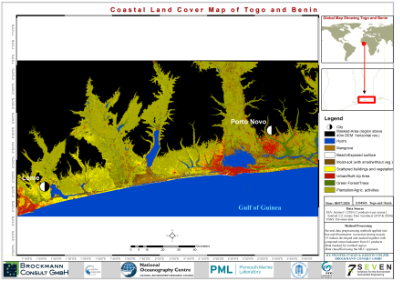
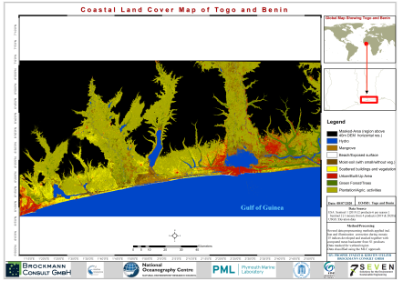
Replaced some LC maps for Prosper...

diff --git a/areas/togo.html b/areas/togo.html
@@ -165,7 +165,7 @@
 
         <tr>
 						<td class="text-center"><strong>Togo Coastal Landcover (2020)</strong></td>
-						<td class="text-center"><a href="https://storage.cloud.google.com/eo4sd-271513.appspot.com/West%20Africa/Togo/EO4SD_Togo-coastal_Landcover_map.png" target="_blank"><img src="../data/WestAfrica/Togo/EO4SD_Togo-coastal_Landcover_map_ql.png" width="400" alt="Benin LC"/></a><br>
+						<td class="text-center"><a href="https://storage.googleapis.com/eo4sd-271513.appspot.com/West%20Africa/Togo/Togo_EO4SD_updated-sentinel2.png" target="_blank"><img src="../data/WestAfrica/Togo/EO4SD_Togo-coastal_Landcover_map_ql.png" width="400" alt="Benin LC"/></a><br>
 			            (2.3MB)</td>
 						<td class="text-center">
 							<details>
@@ -183,9 +183,9 @@
     		
         <tr>
 						<td class="text-center"><strong>Togo and Benin Coastal Landcover (2020)</strong></td>
-						<td class="text-center"><a href="https://storage.cloud.google.com/eo4sd-271513.appspot.com/West%20Africa/TogoBenin/Landcover/EO4SD_Togo%20and%20Benin-coastal_Landcover_map.png" target="_blank"><img src="../data/WestAfrica/TogoBenin/EO4SD_Togo and Benin-coastal_Landcover_map_ql.png" width="400" alt="Togo and Benin LC"/></a><br>
+						<td class="text-center"><a href="https://storage.googleapis.com/eo4sd-271513.appspot.com/West%20Africa/TogoBenin/Landcover/Benin_and_Togo_EO4SD_updated-sentinel2.png" target="_blank"><img src="../data/WestAfrica/TogoBenin/EO4SD_Togo and Benin-coastal_Landcover_map_ql.png" width="400" alt="Togo and Benin LC"/></a><br>
 			            (2.5MB)</td>
-						<td class="text-center">
+			   		<td class="text-center">
 							<details>
 							  <summary>
 								This is the Togo and Benin land-cover classification data (2020) produced by Brockmann Consult GmbH for the Marine and Coastal Resources project.

diff --git a/areas/benin.html b/areas/benin.html
@@ -195,7 +195,7 @@
 			  
         <tr>
 						<td class="text-center"><strong>Benin Coastal Landcover (2020)</strong></td>
-						<td class="text-center"><a href="https://storage.cloud.google.com/eo4sd-271513.appspot.com/West%20Africa/Benin/Landcover/EO4SD_Benin-coastal_Landcover_map.png" target="_blank"><img src="../data/WestAfrica/Benin/EO4SD_Benin-coastal_Landcover_map_ql.png" width="400" alt="Benin LC"/></a><br>
+						<td class="text-center"><a href="https://storage.googleapis.com/eo4sd-271513.appspot.com/West%20Africa/Benin/Landcover/Benin_EO4SD_updated-sentinel2.png" target="_blank"><img src="../data/WestAfrica/Benin/EO4SD_Benin-coastal_Landcover_map_ql.png" width="400" alt="Benin LC"/></a><br>
 			            (2.5MB)</td>
 						<td class="text-center">
 							<details>
@@ -213,7 +213,7 @@
     		
         <tr>
 						<td class="text-center"><strong>Togo and Benin Coastal Landcover (2020)</strong></td>
-						<td class="text-center"><a href="https://storage.cloud.google.com/eo4sd-271513.appspot.com/West%20Africa/TogoBenin/Landcover/EO4SD_Togo%20and%20Benin-coastal_Landcover_map.png" target="_blank"><img src="../data/WestAfrica/TogoBenin/EO4SD_Togo and Benin-coastal_Landcover_map_ql.png" width="400" alt="Togo and Benin LC"/></a><br>
+						<td class="text-center"><a href="https://storage.googleapis.com/eo4sd-271513.appspot.com/West%20Africa/TogoBenin/Landcover/Benin_and_Togo_EO4SD_updated-sentinel2.png" target="_blank"><img src="../data/WestAfrica/TogoBenin/EO4SD_Togo and Benin-coastal_Landcover_map_ql.png" width="400" alt="Togo and Benin LC"/></a><br>
 			            (2.5MB)</td>
 						<td class="text-center">
 							<details>

diff --git a/areas/pakistan.html b/areas/pakistan.html
@@ -151,7 +151,7 @@
         </tr>
         <tr>
 						<td class="text-center"><strong>Sindh-Pakistan Coastal Landcover (2020)</strong></td>
-						<td class="text-center"><a href="https://storage.cloud.google.com/eo4sd-271513.appspot.com/Pakistan/Sindh-Pakistan_coastal_Landcover_map.png" target="_blank"><img src="../data/Pakistan/Sindh-Pakistan_coastal_Landcover_map_ql.png" width="400" alt="Togo and Benin LC"/></a><br>
+						<td class="text-center"><a href="https://storage.googleapis.com/eo4sd-271513.appspot.com/Pakistan/Pakistan_EO4SD_updated2-sentinel.png" target="_blank"><img src="../data/Pakistan/Sindh-Pakistan_coastal_Landcover_map_ql.png" width="400" alt="Togo and Benin LC"/></a><br>
 			            (2.5MB)</td>
 						<td class="text-center">
 							<details>
@@ -163,7 +163,7 @@
 						<td class="text-center"><strong>Sindh-Pakistan</strong></td>
 						<td class="text-center"><strong>2019</strong></td>
 						<td class="text-center"><strong><a href="https://storage.cloud.google.com/eo4sd-271513.appspot.com/Pakistan/Sindh_Pakistan_LC.tif" target="_blank">GIS data (TIF, 127MB)</a><br><br>
-        																		<a href="https://storage.cloud.google.com/eo4sd-271513.appspot.com/Pakistan/Sindh_Pakistan_LC.tif.xml" target="_blank">Metadata (XML, 3.8KB)</a></strong>
+        																		<a href="https://storage.googleapis.com/eo4sd-271513.appspot.com/Pakistan/Sindh-Pakistan_metadata.xml" target="_blank">Metadata (XML, 3.8KB)</a></strong>
     				</td>			  
     		</tr>
         <tr>

diff --git a/areas/cote_d_ivoire.html b/areas/cote_d_ivoire.html
@@ -165,8 +165,7 @@
         </tr>
         <tr>
             <td class="text-center"><strong>C&ocirc;te d'Ivoire Coastal Landcover (2020)</strong></td>
-            <td class="text-center"><a
-                    href="https://storage.googleapis.com/eo4sd-271513.appspot.com/West%20Africa/CoteDIvoire/EO4SD_Abidjan_Landcover_map.png"
+            <td class="text-center"><a href="https://storage.googleapis.com/eo4sd-271513.appspot.com/West%20Africa/CoteDIvoire/Abidjan_EO4SD_updated2.png"
                     target="_blank"><img src="../data/WestAfrica/CoteDIvoire/EO4SD_Abidjan_Landcover_map_ql.png"
                                          width="400" alt="Benin LC"/></a><br>
                 (2.5MB)
